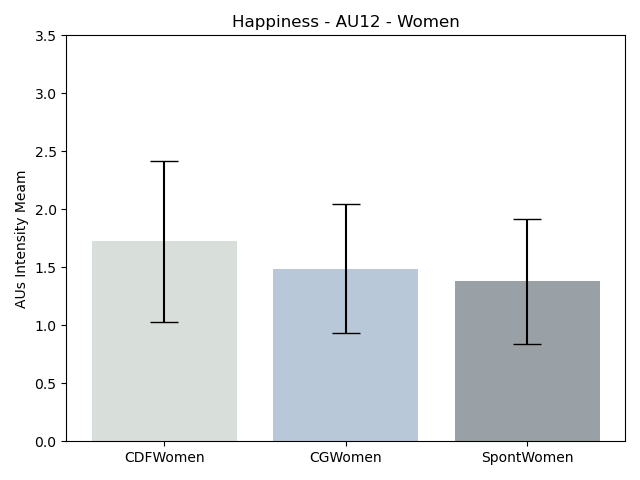
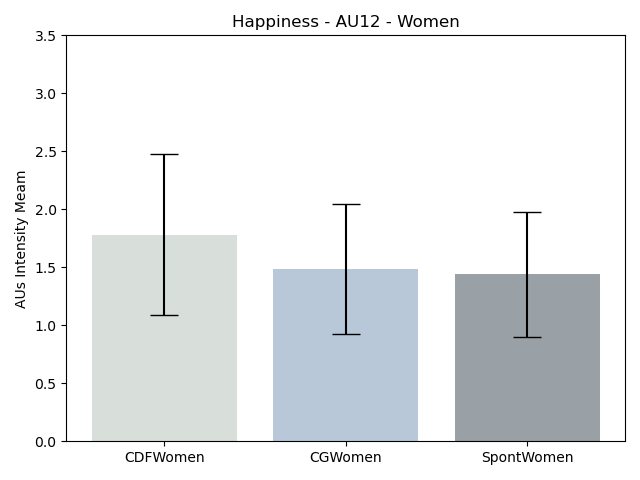
testes novos

diff --git a/src/run_Happy.py b/src/run_Happy.py
@@ -175,23 +175,23 @@ def carregaCompare():
 
             # break
 
-    # getHappiness(men6, legendaMen, 'AU6', 'Men')
-    # getHappiness(men12, legendaMen, 'AU12', 'Men')
+    getHappiness(men6, legendaMen, 'AU6', 'Men')
+    getHappiness(men12, legendaMen, 'AU12', 'Men')
     
-    # getHappiness(women6, legendaWomen, 'AU6', 'Women')
-    # getHappiness(women12, legendaWomen, 'AU12', 'Women')
+    getHappiness(women6, legendaWomen, 'AU6', 'Women')
+    getHappiness(women12, legendaWomen, 'AU12', 'Women')
 
-    # getHappiness(menAll, legendaMen, 'AU6+AU12', 'Men')
-    # getHappiness(womenAll, legendaWomen, 'AU6+AU12', 'Women')
+    getHappiness(menAll, legendaMen, 'AU6+AU12', 'Men')
+    getHappiness(womenAll, legendaWomen, 'AU6+AU12', 'Women')
 
-    getAnova(men6, legendaMen, 'AU6', 'Men')
-    getAnova(men12, legendaMen, 'AU12', 'Men')
+    # getAnova(men6, legendaMen, 'AU6', 'Men')
+    # getAnova(men12, legendaMen, 'AU12', 'Men')
 
-    getAnova(women6, legendaWomen, 'AU6', 'Women')
-    getAnova(women12, legendaWomen, 'AU12', 'Women')
+    # getAnova(women6, legendaWomen, 'AU6', 'Women')
+    # getAnova(women12, legendaWomen, 'AU12', 'Women')
 
-    getAnova(menAll, legendaMen, 'AU6+AU12', 'Men')
-    getAnova(womenAll, legendaWomen, 'AU6+AU12', 'Women')
+    # getAnova(menAll, legendaMen, 'AU6+AU12', 'Men')
+    # getAnova(womenAll, legendaWomen, 'AU6+AU12', 'Women')
 
     # print(men6)
     # print(men12)
@@ -204,16 +204,21 @@ def getAnova(total, legendaMen, tipo, gender):
 def getHappiness(total, legendaMen, tipo, gender):
 
 
-    m1 = np.mean(total[0])
-    m2 = np.mean(total[1])
-    m3 = np.mean(total[2])
+    m1 = np.median(total[0])
+    m2 = np.median(total[1])
+    m3 = np.median(total[2])
+
+    vr1 = np.var(total[0])
+    vr2 = np.var(total[1])
+    vr3 = np.var(total[2])
     
     s1 = np.std(total[0])
     s2 = np.std(total[1])
     s3 = np.std(total[2])
 
-    print('MEAN ', m1, m2, m3, tipo, gender, legendaMen)
-    print('STD ', s1, s2, s3, tipo, gender, legendaMen)
+    print('MEDIAN ', "%.3f" % m1, "%.3f" % m2, "%.3f" % m3, tipo, gender, legendaMen)
+    print('STD ', "%.3f" % s1, "%.3f" % s2, "%.3f" % s3, tipo, gender, legendaMen)
+    print('VARIANCE ', "%.3f" % vr1, "%.3f" % vr2, "%.3f" % vr3, tipo, gender, legendaMen)
     
     CTEs = [m1,m2,m3]
     error = [s1,s2,s3]
@@ -244,17 +249,24 @@ def getHappiness(total, legendaMen, tipo, gender):
     plt.clf()
     plt.close()    
 
-    # STD  0.9336078102719114 1.4885567070671435 1.2943103800866314 AU6 Men ['CDFMen', 'CGMen', 'SpontMen']
-    # MEAN  1.3699999999999999 1.3465517241379312 1.7044 AU12 Men ['CDFMen', 'CGMen', 'SpontMen']
-    # STD  0.6674630301010867 0.6856875525619571 0.9465181667564548 AU12 Men ['CDFMen', 'CGMen', 'SpontMen']
-    # MEAN  1.745438596491228 0.3941071428571429 1.0072222222222222 AU6 Women ['CDFWomen', 'CGWomen', 'SpontWomen']
-    # STD  0.8258139422910227 0.4724812044096655 0.9627409110079383 AU6 Women ['CDFWomen', 'CGWomen', 'SpontWomen']
-    # MEAN  1.7236842105263157 1.4869642857142853 1.38 AU12 Women ['CDFWomen', 'CGWomen', 'SpontWomen']
-    # STD  0.6940590792866024 0.5570423157908496 0.538041716680862 AU12 Women ['CDFWomen', 'CGWomen', 'SpontWomen']
-    # MEAN  1.1810344827586208 1.1551724137931034 1.23 AU6+AU12 Men ['CDFMen', 'CGMen', 'SpontMen']
-    # STD  0.6207495181860238 0.8520102828004026 0.7156116265125938 AU6+AU12 Men ['CDFMen', 'CGMen', 'SpontMen']
-    # MEAN  1.2543859649122806 0.5446428571428571 0.8055555555555556 AU6+AU12 Women ['CDFWomen', 'CGWomen', 'SpontWomen']
-    # STD  0.5390277717802533 0.40396235806655784 0.5306936992928556 AU6+AU12 Women ['CDFWomen', 'CGWomen', 'SpontWomen']
+    # MEDIAN  1.830 1.690 1.565 AU6 Men ['CDFMen', 'CGMen', 'SpontMen']
+    # STD  0.934 1.489 1.294 AU6 Men ['CDFMen', 'CGMen', 'SpontMen']     
+    # VARIANCE  0.872 2.216 1.675 AU6 Men ['CDFMen', 'CGMen', 'SpontMen']
+    # MEDIAN  1.410 1.300 1.845 AU12 Men ['CDFMen', 'CGMen', 'SpontMen']
+    # STD  0.667 0.686 0.947 AU12 Men ['CDFMen', 'CGMen', 'SpontMen']     
+    # VARIANCE  0.446 0.470 0.896 AU12 Men ['CDFMen', 'CGMen', 'SpontMen']
+    # MEDIAN  1.770 0.105 0.815 AU6 Women ['CDFWomen', 'CGWomen', 'SpontWomen']
+    # STD  0.826 0.472 0.963 AU6 Women ['CDFWomen', 'CGWomen', 'SpontWomen']     
+    # VARIANCE  0.682 0.223 0.927 AU6 Women ['CDFWomen', 'CGWomen', 'SpontWomen']
+    # MEDIAN  1.780 1.485 1.440 AU12 Women ['CDFWomen', 'CGWomen', 'SpontWomen']
+    # STD  0.694 0.557 0.538 AU12 Women ['CDFWomen', 'CGWomen', 'SpontWomen']     
+    # VARIANCE  0.482 0.310 0.289 AU12 Women ['CDFWomen', 'CGWomen', 'SpontWomen']
+    # MEDIAN  1.000 1.000 1.000 AU6+AU12 Men ['CDFMen', 'CGMen', 'SpontMen']
+    # STD  0.621 0.852 0.716 AU6+AU12 Men ['CDFMen', 'CGMen', 'SpontMen']     
+    # VARIANCE  0.385 0.726 0.512 AU6+AU12 Men ['CDFMen', 'CGMen', 'SpontMen']
+    # MEDIAN  1.500 0.500 1.000 AU6+AU12 Women ['CDFWomen', 'CGWomen', 'SpontWomen']
+    # STD  0.539 0.404 0.531 AU6+AU12 Women ['CDFWomen', 'CGWomen', 'SpontWomen']
+    # VARIANCE  0.291 0.163 0.282 AU6+AU12 Women ['CDFWomen', 'CGWomen', 'SpontWomen']
 
     return 'ok'
 
@@ -275,6 +287,6 @@ if __name__ == '__main__':
 
     carregaCompare()
 
-
+    # Mediana ao inves de (Media) e adicionar Variancia
     # faces de reais posadas e espont e CG (dataset e estranheza)
-    # diferença de aus, regiao, e genero.
+    # diferença de aus, regiao (face superior e face inferior), e genero.
